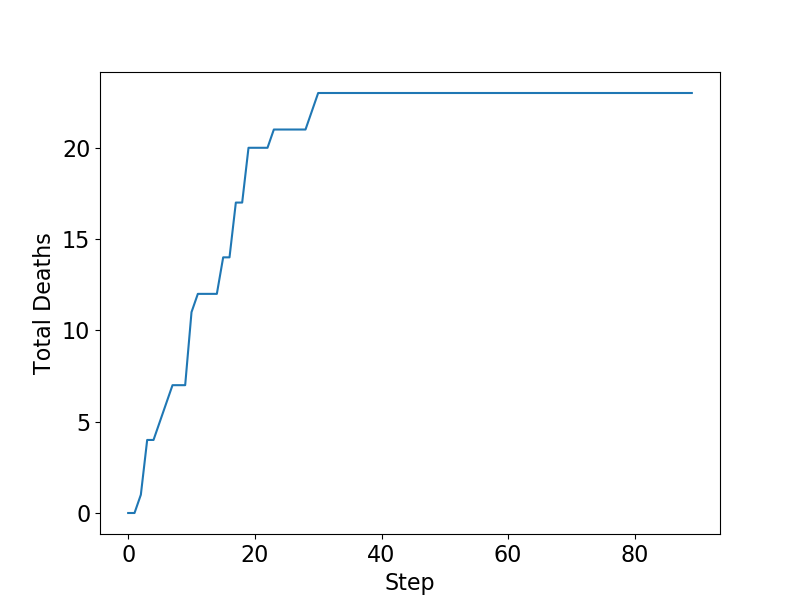
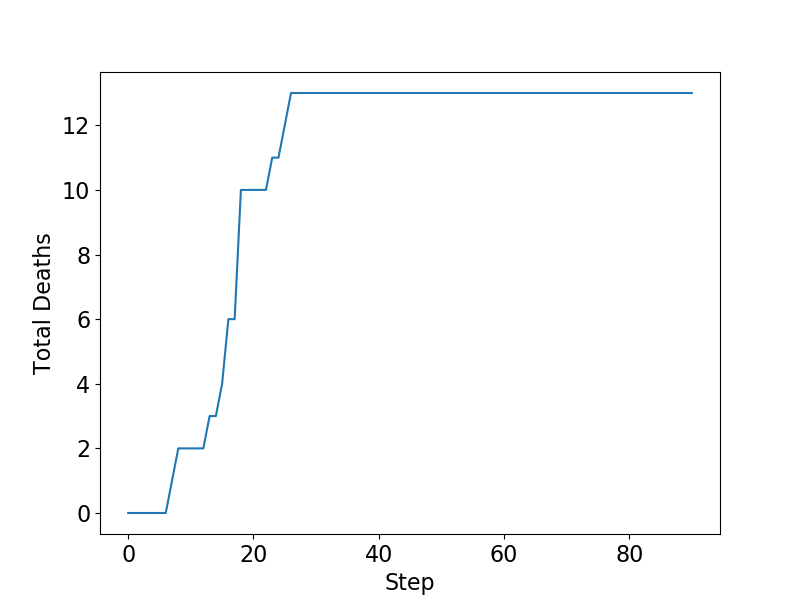
working model without mitigation

diff --git a/model/model.py b/model/model.py
@@ -6,6 +6,7 @@ from model.node import polya_node
 from typing import List
 import networkx as nx
 
+
 class network:
     nodes: List[polya_node]
 
@@ -123,10 +124,12 @@ class network:
                         node.daysInfected +=1
                         if node.daysInfected > 10:
                             node.reset_node()
-                        node.total_red = total_red
-                        node.total_black = total_black
                     else:
                         deaths += 1
+                if node.recovered:
+                    continue
+                node.total_red = total_red
+                node.total_black = total_black
         self.total_infected.append(infected)
         self.total_deaths.append(deaths)
         
@@ -150,6 +153,14 @@ class network:
                     self.add_draw_data(node, 0)
                 else:
                     self.add_draw_data(node, 1)
+
+        # # find optimal node to inject black balls
+        # if self.steps % 5 == 0:
+        #     node = self.find_optimal_node(self.network_plot)
+        #     print(node.id)
+        #     print(str(node.total_black) + "  " + str(node.total_red))
+
+        #     node.inject_black_balls(10000)
         # end of drawing, time to re-compute graph
         self.recompute_urns()
         self.update_deltas()
@@ -456,3 +467,24 @@ class network:
             self.network_plot.add_edge(self.nodes[i],self.nodes[104])
             self.network_plot.add_edge(self.nodes[i],self.nodes[105])
     #end construct_network_c
+
+    def find_optimal_node(self, G):
+        optimal_node = self.nodes[0] #initialize optimal node
+        opt_red_ball_prop = optimal_node.red_proportion()
+        opt_num_nei = len(optimal_node.neighbours)
+        opt_inf_rating = opt_red_ball_prop * opt_num_nei
+        for node in self.nodes:
+            if node == self.nodes[0]: # skip the first node
+                continue
+            if node.daysInfected > 0:
+                continue
+            red_ball_prop = node.red_proportion()
+            num_neighbours = len(node.neighbours)
+            infection_rating = red_ball_prop*num_neighbours
+            if infection_rating > opt_inf_rating:
+                opt_inf_rating = infection_rating
+                optimal_node = node
+        return optimal_node
+
+
+

diff --git a/model/node.py b/model/node.py
@@ -17,22 +17,22 @@ class polya_node:
         self.delta_b = 0
 	# initial conditions 8
         if self.risk == "mid":
-            self.init_red = 1
-            self.init_black = 5
+            self.init_red = 10
+            self.init_black = 10
         elif self.risk == "hi":
-            self.init_red = 1
-            self.init_black = 3
+            self.init_red = 11
+            self.init_black = 9
         elif self.risk == "lo":
-            self.init_red = 1
-            self.init_black = 6
+            self.init_red = 9
+            self.init_black = 11
         elif self.risk == "mid-ext":
-            self.init_red = 1
-            self.init_black = 5
+            self.init_red = 10
+            self.init_black = 10
             self.delta_r = 2
             self.delta_b = 3
         elif self.risk == "lo-ext":
-            self.init_red = 1
-            self.init_black = 8
+            self.init_red = 9
+            self.init_black = 11
             self.delta_r = 1
             self.delta_b = 3
         # elif self.profile == "hi traffic worker":
@@ -87,6 +87,8 @@ class polya_node:
             self.total_red -= self.init_red
         
     def red_proportion(self):
+        if (self.total_red + self.total_black) == 0:
+            return 0
         return self.total_red / (self.total_red + self.total_black)
     
     def super_red_proportion(self):
@@ -148,6 +150,9 @@ class polya_node:
         self.total_black = self.init_red
         self.recovered = True
         
-        
+    def inject_black_balls(self, numBalls):
+        self.total_black = self.total_black + numBalls
+
+    
         
         

diff --git a/run/first-sim.py b/run/first-sim.py
@@ -6,7 +6,7 @@ import matplotlib.pyplot as plt
 for k in range(1):
     red_prop_data = [[] for _ in range(time_steps + 1)] # red proportion for each urn over time
     super_red_prop_data = [[] for _ in range(time_steps + 1)] # red proportion for each superurn over time
-    G_super = network("c")
+    G_super = network("b")
 
     for i in G_super.nodes:
         # record initial infection rate data
@@ -19,7 +19,7 @@ for k in range(1):
     
     for j in range(time_steps):
         print("Urn " + str(G_super.nodes[0].id) + ". db: " + str(G_super.nodes[0].delta_b) + ", dr: " + str(G_super.nodes[0].delta_r) + "\n Red/black balls are " + str(G_super.nodes[0].total_red) +"/"+ str(G_super.nodes[0].total_black))
-        
+        print(G_super.nodes[0].alive)
         if j % 5 == 0:
             draw_graph(G_super, j, k)
         # print("Time "+str(j)+", Urn " + str(G_super.nodes[0].id) + ". db: " + str(G_super.nodes[0].delta_b) + ", dr: " + str(G_super.nodes[0].delta_r) + "\n Red/black balls are " + str(G_super.nodes[0].total_red) +"/"+ str(G_super.nodes[0].total_black))
